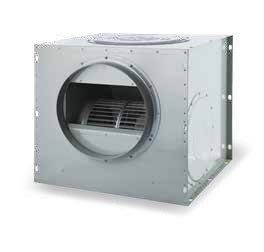
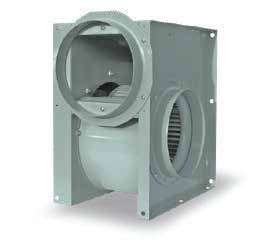
시로코팬 전 모델에 F28 실물 3D 적용, 카드 사진을 카탈로그 사진으로 교체
- 소형·소형 SUS 시로코팬 전 모델과 미니 TFB-F10/F14 AS에 TFB-F28 STEP 형상 사용 (임펠러 지름 비율로 크기 조정, TFM 멀티는 기존 캐비닛 유지)
- 소형(p.8)·소형 SUS(p.12)·대형(p.14) 시로코팬 카드 사진을 국문 카탈로그 사진으로 교체

diff --git a/data/specs.js b/data/specs.js
@@ -8,8 +8,8 @@ window.FZ = window.FZ || {};
 FZ.SPECS = {
   // 미니&멀티 시로코팬 (p6)
   mini_sirocco: { src: 'p.6', def: 0, rows: [
-    ['TFB-F10 AS', 100, '1Ø 220V', 4, [201, 32, 0.1, 10], [216, 30, 0.2, 10], 3.2, { m3d: 'sirocoBox' }],
-    ['TFB-F14 AS', 140, '1Ø 220V', 4, [314, 45, 0.2, 14], [324, 47, 0.3, 14], 4.3, { m3d: 'sirocoBox' }],
+    ['TFB-F10 AS', 100, '1Ø 220V', 4, [201, 32, 0.1, 10], [216, 30, 0.2, 10], 3.2],
+    ['TFB-F14 AS', 140, '1Ø 220V', 4, [314, 45, 0.2, 14], [324, 47, 0.3, 14], 4.3],
     ['TFM-F10 AS', 100, '1Ø 220V', 4, [201, 32, 0.1, 10], [216, 29, 0.2, 10], 4.0, { m3d: 'cabinetMulti' }],
     ['TFM-F14 AS', 140, '1Ø 220V', 4, [314, 45, 0.2, 14], [324, 43, 0.3, 14], 5.1, { m3d: 'cabinetMulti' }],
     ['TFM-F16 BS', 160, '1Ø 220V', 4, [770, 121, 0.6, 14], [1000, 195, 0.7, 23], 6.2, { m3d: 'cabinetMulti' }]
@@ -20,8 +20,8 @@ FZ.SPECS = {
     ['TFB-F19 DT', 180, '3Ø 220/380V', 4, [1450, 270, '1.5/0.9', 21], [1500, 190, '1.4/0.8', 31], 11],
     ['TFB-G25 DS', 250, '1Ø 220V', 6, [2000, 350, 1.7, 16], [2400, 400, 2.1, 24], 20],
     ['TFB-G25 DT', 250, '3Ø 220/380V', 6, [2000, 330, '2.0/1.2', 17], [2400, 360, '1.9/1.1', 25], 20],
-    ['TFB-F28 FS', 250, '1Ø 220V', 4, [3300, 975, 4.9, 40], [3800, 1525, 7.2, 55], 24, { m3d: 'glbF28' }],
-    ['TFB-F28 FT', 250, '3Ø 220/380V', 4, [3350, 1200, '6.4/3.7', 34], [3800, 1600, '5.7/3.3', 52], 23, { m3d: 'glbF28' }],
+    ['TFB-F28 FS', 250, '1Ø 220V', 4, [3300, 975, 4.9, 40], [3800, 1525, 7.2, 55], 24],
+    ['TFB-F28 FT', 250, '3Ø 220/380V', 4, [3350, 1200, '6.4/3.7', 34], [3800, 1600, '5.7/3.3', 52], 23],
     ['TFB-G29 ES', 250, '1Ø 220V', 6, [2600, 406, 2.5, 21], [3000, 520, 2.6, 30], 22],
     ['TFB-G29 ET', 250, '3Ø 220/380V', 6, [2400, 370, '2.1/1.2', 19], [2800, 510, '2.0/1.1', 29], 22],
     ['TFB-F29 FS', 250, '1Ø 220V', 4, [4050, 1200, 6.2, 40], [4500, 1760, 8.2, 67], 25],
@@ -35,8 +35,8 @@ FZ.SPECS = {
     ['TFB-F19 DT-S', 180, '3Ø 220/380V', 4, [1450, 270, '1.5/0.9', 21], [1500, 190, '1.4/0.8', 31], 11],
     ['TFB-G25 DS-S', 250, '1Ø 220V', 6, [2000, 350, 1.7, 16], [2400, 400, 2.1, 24], 20],
     ['TFB-G25 DT-S', 250, '3Ø 220/380V', 6, [2000, 330, '2.0/1.2', 17], [2400, 360, '1.9/1.1', 25], 20],
-    ['TFB-F28 FS-S', 250, '1Ø 220V', 4, [3300, 975, 4.9, 40], [3800, 1525, 7.2, 55], 24, { m3d: 'glbF28Sus' }],
-    ['TFB-F28 FT-S', 250, '3Ø 220/380V', 4, [3350, 1200, '6.4/3.7', 34], [3800, 1600, '5.7/3.3', 52], 23, { m3d: 'glbF28Sus' }],
+    ['TFB-F28 FS-S', 250, '1Ø 220V', 4, [3300, 975, 4.9, 40], [3800, 1525, 7.2, 55], 24],
+    ['TFB-F28 FT-S', 250, '3Ø 220/380V', 4, [3350, 1200, '6.4/3.7', 34], [3800, 1600, '5.7/3.3', 52], 23],
     ['TFB-G29 ES-S', 250, '1Ø 220V', 6, [2600, 406, 2.5, 21], [3000, 520, 2.6, 30], 22],
     ['TFB-G29 ET-S', 250, '3Ø 220/380V', 6, [2400, 370, '2.1/1.2', 19], [2800, 510, '2.0/1.1', 29], 22],
     ['TFB-F29 FS-S', 250, '1Ø 220V', 4, [4050, 1200, 6.2, 40], [4500, 1760, 8.2, 67], 25],

diff --git a/data/products.js b/data/products.js
@@ -10,13 +10,13 @@ window.FZ = window.FZ || {};
 
 FZ.PRODUCTS = {
   /* ---------- 시로코팬 (CENTRIFUGAL FANS) ---------- */
-  mini_sirocco: { name: '미니&멀티 시로코팬', model: 'TFB-F10 AS', group: '시로코팬', model3d: 'sirocoBox', role: 'exhaust', mount: 'duct', size: 0.32,
+  mini_sirocco: { name: '미니&멀티 시로코팬', model: 'TFB-F10 AS', group: '시로코팬', model3d: 'glbF28', role: 'exhaust', mount: 'duct', size: 0.32,
     airflow: 201, power: 32, pressure: '10mmAq', eff: 0.75,
     features: ['소형 공간 단독 급·배기 (미니)', '흡입 플랜지 2~3개로 여러 곳 동시 배기 (멀티)', '정압이 약한 천장형 환풍기 보완'] },
-  small_sirocco: { name: '소형 시로코팬', model: 'TFB-F19 DS', group: '시로코팬', model3d: 'sirocoBox', role: 'exhaust', mount: 'duct', size: 0.5, extra: true,
+  small_sirocco: { name: '소형 시로코팬', model: 'TFB-F19 DS', group: '시로코팬', model3d: 'glbF28', role: 'exhaust', mount: 'duct', size: 0.5, extra: true,
     airflow: 1400, power: 250, pressure: '21mmAq', eff: 0.75,
     features: ['저소음형 날개·케이싱', '모터·팬 직결형으로 소형·경량', '설치 상태로 모터·날개 분리 점검'] },
-  sus_sirocco: { name: '소형 시로코팬 SUS', model: 'TFB-F19 DS-S', group: '시로코팬', model3d: 'centrifugalSus', role: 'exhaust', mount: 'duct', size: 0.5,
+  sus_sirocco: { name: '소형 시로코팬 SUS', model: 'TFB-F19 DS-S', group: '시로코팬', model3d: 'glbF28Sus', role: 'exhaust', mount: 'duct', size: 0.5,
     airflow: 1400, power: 250, pressure: '21mmAq', eff: 0.75,
     features: ['스테인리스(SUS) 재질 – 부식 환경 대응', '주방·병원·수영장 등 습한 곳', '저소음'] },
   large_sirocco: { name: '대형 시로코팬', model: 'TFB-G31 FS', group: '시로코팬', model3d: 'sirocoFrame', role: 'exhaust', mount: 'duct', size: 0.75,

diff --git a/data/tags.js b/data/tags.js
@@ -8,9 +8,9 @@ window.FZ = window.FZ || {};
 FZ.TAGS = {
   /* 시로코팬 */
   mini_sirocco:   { solves: ['humid', 'odor', 'co2'], dirs: ['exhaust', 'intake'], def: 'exhaust', area: [3, 300], quiet: 1, image: 'multi_sirocco.jpg' },
-  small_sirocco:  { solves: ['humid', 'odor', 'co2', 'heat'], dirs: ['exhaust', 'intake'], def: 'exhaust', area: [20, 1500], quiet: 1, image: null },
+  small_sirocco:  { solves: ['humid', 'odor', 'co2', 'heat'], dirs: ['exhaust', 'intake'], def: 'exhaust', area: [20, 1500], quiet: 1, image: 'sirocco_small.jpg' },
   sus_sirocco:    { solves: ['humid', 'odor', 'gas'], dirs: ['exhaust', 'intake'], def: 'exhaust', area: [20, 1500], corrosion: 1, oily: 1, image: 'sirocco_sus.jpg' },
-  large_sirocco:  { solves: ['heat', 'dust', 'gas', 'odor'], dirs: ['exhaust', 'intake'], def: 'exhaust', area: [150, 5000], image: null },
+  large_sirocco:  { solves: ['heat', 'dust', 'gas', 'odor'], dirs: ['exhaust', 'intake'], def: 'exhaust', area: [150, 5000], image: 'sirocco_large.jpg' },
   blower_fixed:   { solves: ['dust', 'gas'], dirs: ['exhaust', 'intake'], def: 'exhaust', area: [200, 10000], loud: 1, image: null },
   blower_dry:     { solves: ['humid', 'heat', 'co2'], dirs: ['exhaust', 'intake'], def: 'exhaust', area: [30, 2000], quiet: 1, image: 'sirocco.jpg' },
   double_sirocco: { solves: ['odor', 'co2', 'heat', 'humid'], dirs: ['exhaust', 'intake'], def: 'exhaust', area: [50, 2000], quiet: 1, oily: 1, image: 'sirocco_double.jpg' },
